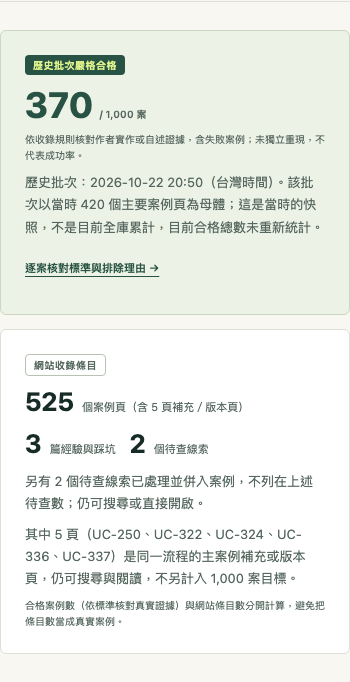
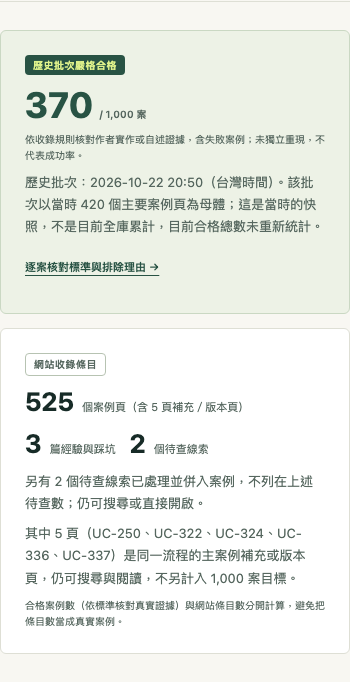
docs: record the count-label round and the review outcome

diff --git a/docs/qa/2026-11-16-merged-count-labels/README.md b/docs/qa/2026-11-16-merged-count-labels/README.md
@@ -52,14 +52,15 @@
 
 ## 訪客驗收
 
-- 同頁、同尺寸、同資料狀態的前後對照（`before` 取正式站 `5a001480`，`after` 取本機 preview）：
+- 同頁、同尺寸、同資料狀態的前後對照（`before` 取 `5a001480` 的本機 preview，與當時正式站同一個 commit；`after` 取合併 main 後的本機 preview）：
 
 | 尺寸 | 統計卡前 | 統計卡後 | UC-322 徽章前 | UC-322 徽章後 |
 | --- | --- | --- | --- | --- |
 | 1440×900 | `525` ＋「個主要案例頁」 | `525` ＋「個案例頁（含 5 頁補充／版本頁）」 | 「主案例 UC-048 的版本頁」 | 「主案例 UC-048 的版本頁・不另計一案」 |
 | 390×844 | 同上 | 同上 | 同上 | 同上（徽章 188px，未溢出） |
 
-- 截圖：`before-{desktop,phone}-stats.png`、`before-{desktop,phone}-uc322.png`、`after-{desktop,phone}-stats.png`、`after-{desktop,phone}-uc322.png`；量測 `shots/measurements.json`。
+- 補記：正式站在本輪建立後前進到 `43737bfa`（PR #454／#456 的空結果目錄改版），`git diff 5a001480..43737bfa -- assets/app.js index.html INDEX.md` 沒有碰到 `card-merged`、`case-count` 或「主要案例」字樣，因此上表的 before 對照仍描述同一段程式。
+- 截圖：`before-{desktop,phone}-stats.png`、`before-{desktop,phone}-uc322.png`、`after-{desktop,phone}-stats.png`、`after-{desktop,phone}-uc322.png`；量測 [measurements.json](measurements.json)。
 - 三種必要情境（preview，1440×900／390×844，`reducedMotion: reduce`，桌面與手機結果相同）：
   1. 不知道工具名稱的新訪客輸入「我想讓 AI 幫我整理會議紀錄」→ 4 筆與說明，按「改搜「會議」→ 14 筆」後畫面 14 筆、查詢欄變「會議」、前四張 UC-094／UC-277／UC-511／UC-298；開詳情看到「作者報告／示範＋設計／未實跑」；Escape 關閉、焦點回原卡片、查詢保留。
   2. `?q=發票&tool=Cursor&scenario=學習` → 0 筆，空結果面板列出「移除提及工具「Cursor」→ 1 筆」；點擊後 1 筆、網址保留 `q` 與 `scenario`、焦點在 `#results-count`。
@@ -74,7 +75,11 @@
 
 ## 獨立審查
 
-（待填）
+- 由未參與實作的獨立 reviewer context（`CountLabelsReview`）檢查最終 diff（`28f3aa8c`）、新測試與驗收證據：**P0／P1／P2 沒有 findings**。
+- P3 一項：QA 紀錄引用 `shots/measurements.json`，實際檔在證據目錄根層；已改成 `measurements.json` 連結。
+- reviewer 自行重跑 `node --test tests/merged-destinations.test.cjs tests/count-target-consistency.test.cjs tests/audit.test.cjs tests/index-freshness.test.cjs`：**26 pass／0 fail**；在 1440×900 核對統計卡數字、標籤、註記與 UC-322 徽章，無水平溢出，結論 correct。它另一次 390×844 的瀏覽器嘗試在等徽章時逾時，未獨立驗證該寬度；390×844 與 320×740 由整合者以 `measurements.json`、`tests/evidence-attribution-browser.cjs`（三種寬度）與 320px 幾何檢查（徽章 153×43、`scrollWidth - clientWidth = 0`）補足。
+- reviewer 確認：標籤與註記使用同一個載入計數（含部分載入）、UC-250 仍顯示為「補充頁」不是版本頁、`#case-count` 仍可供既有腳本讀取、CSS 不依賴舊字樣、更新後的 INDEX 斷言仍驗證筆數與順序，不是放寬守則。
+- 收到審查後只改文件路徑；合併 `origin/main`（`43737bfa`）後重跑全套 **901 pass／0 fail**，並重跑三種訪客情境（結果同上）與 `tests/evidence-attribution-browser.cjs`（exit 0）。
 
 ## PR、Actions 與發布
 
